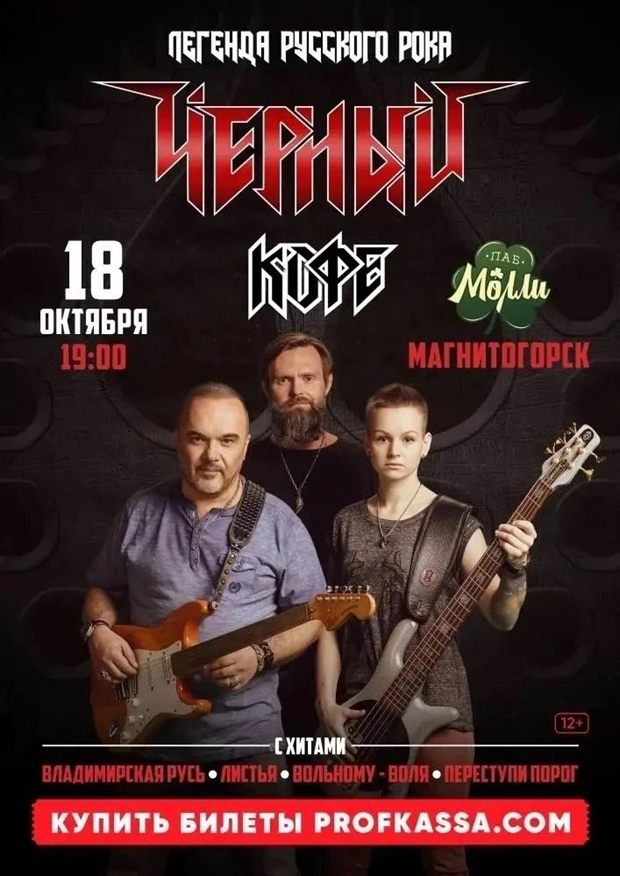
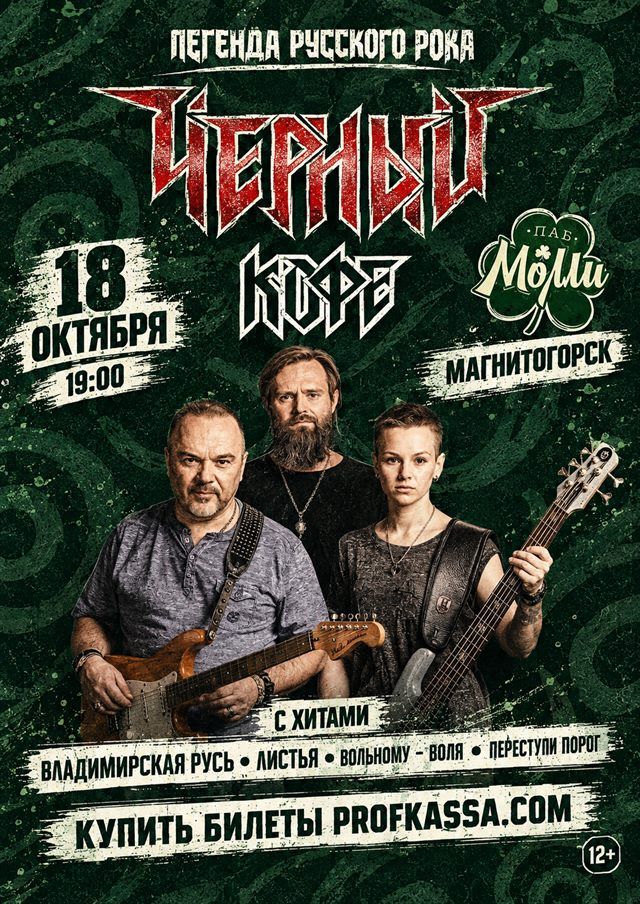
Свой шрифт и настоящие афиши концертов
Шрифт: Bitter — брусковая антиква с кириллицей, лицензия SIL OFL.
Лежит рядом с сайтом двумя файлами на 55 КБ, кириллица и латиница
отдельными наборами. Никаких обращений к сторонним серверам: ни
блокировки, ни чужой аптайм на нас не влияют. Начертание заголовков
поднято с 400 до 500 — на тёмном фоне тонкое смотрится жидко.

Афиши: шесть постеров заменены на присланные, все в фирменной
зелёной гамме заведения. Постеры разных пропорций, а контейнер 3:4 —
отсюда и «блёклость»: квадратные обрастали пустыми полосами. Теперь
за афишей её же размытая копия, пустот не видно.

«Папин Олимпос» распродан — так и написано, кнопка билетов погашена.
У Косты Лакосты поправлено время: на афише 20:00, а не 19:00.

diff --git a/style.css b/style.css
@@ -1,3 +1,24 @@
+/* ================= ШРИФТ =================
+   Bitter — брусковая антиква с кириллицей, лицензия SIL OFL (fonts/OFL.txt).
+   Лежит рядом с сайтом: без обращений к сторонним серверам,
+   значит не зависит ни от блокировок, ни от чужого аптайма. */
+@font-face{
+  font-family:'Bitter';
+  font-style:normal;
+  font-weight:100 900;
+  font-display:swap;
+  src:url('fonts/bitter-cyrillic.woff2') format('woff2');
+  unicode-range:U+0301, U+0400-045F, U+0490-0491, U+04B0-04B1, U+2116;
+}
+@font-face{
+  font-family:'Bitter';
+  font-style:normal;
+  font-weight:100 900;
+  font-display:swap;
+  src:url('fonts/bitter-latin.woff2') format('woff2');
+  unicode-range:U+0000-00FF, U+0131, U+0152-0153, U+02BB-02BC, U+02C6, U+02DA, U+02DC, U+0304, U+0308, U+0329, U+2000-206F, U+20AC, U+2122, U+2191, U+2193, U+2212, U+2215, U+FEFF, U+FFFD;
+}
+
 :root{
   --ink:#0a1209;
   --bg:#0d1a12;
@@ -11,7 +32,7 @@
   --brass-bright:#e0bc74;
   --amber:#d98b2b;
   --shadow:0 18px 50px rgba(0,0,0,.45);
-  --serif:Georgia,"Times New Roman",'Iowan Old Style',serif;
+  --serif:'Bitter',Georgia,"Times New Roman",serif;
   --sans:-apple-system,BlinkMacSystemFont,"Segoe UI",Arial,sans-serif;
   --wrap:1180px;
 }
@@ -26,7 +47,7 @@ a{color:inherit;text-decoration:none}
 .wrap{width:100%;max-width:var(--wrap);margin:0 auto;padding:0 24px}
 
 /* ---------- типографика ---------- */
-h1,h2,h3,.serif{font-family:var(--serif);font-weight:400;letter-spacing:.01em}
+h1,h2,h3,.serif{font-family:var(--serif);font-weight:500;letter-spacing:.005em}
 h2{font-size:clamp(30px,4.4vw,50px);line-height:1.12}
 h3{font-size:22px;line-height:1.25}
 .eyebrow{
@@ -62,7 +83,7 @@ h3{font-size:22px;line-height:1.25}
    на телефоне её вытесняют кнопка брони и бургер */
 .logo-txt{display:block;line-height:1.15}
 .logo-txt b{
-  display:block;font-family:var(--serif);font-weight:400;font-size:23px;
+  display:block;font-family:var(--serif);font-weight:500;font-size:23px;
   color:var(--cream);letter-spacing:.02em;
 }
 .logo-txt span{
@@ -166,7 +187,7 @@ h3{font-size:22px;line-height:1.25}
   display:block;font-size:11.5px;letter-spacing:.16em;text-transform:uppercase;
   color:var(--amber);font-weight:700;margin-bottom:8px;
 }
-.ev-txt h4{font-family:var(--serif);font-size:19px;font-weight:400;line-height:1.2;margin-bottom:6px}
+.ev-txt h4{font-family:var(--serif);font-size:19px;font-weight:500;line-height:1.2;margin-bottom:6px}
 .ev-txt p{font-size:14px;color:var(--muted)}
 .bill-foot{
   margin-top:32px;display:flex;align-items:center;gap:14px;flex-wrap:wrap;
@@ -446,7 +467,7 @@ body:not(.hints) .need,body:not(.hints) .draft-bar{display:none}
 .asst-teaser.on{display:flex}
 @keyframes pop{from{opacity:0;transform:translateY(10px) scale(.96)}to{opacity:1;transform:none}}
 .asst-teaser .ava{width:48px;height:48px;border-radius:50%;flex:none;background:linear-gradient(150deg,#1c3222,#101d14);color:var(--brass-bright);display:flex;align-items:center;justify-content:center;font-family:var(--serif);font-size:19px}
-.asst-teaser b{display:block;font-size:15px;margin-bottom:3px;font-family:var(--serif);font-weight:400}
+.asst-teaser b{display:block;font-size:15px;margin-bottom:3px;font-family:var(--serif);font-weight:500}
 .asst-teaser p{font-size:13.5px;line-height:1.45;color:#3c4a38}
 .asst-teaser .x{position:absolute;top:8px;right:10px;border:0;background:none;font-size:17px;color:#8b978a;cursor:pointer;line-height:1;padding:4px}
 .asst-teaser .x:hover{color:#1b2419}
@@ -461,7 +482,7 @@ body:not(.hints) .need,body:not(.hints) .draft-bar{display:none}
 .asst-panel.on{display:flex}
 .asst-head{display:flex;align-items:center;gap:12px;padding:16px 18px;background:var(--panel);border-bottom:1px solid var(--line-soft);flex:none}
 .asst-head .ava{width:46px;height:46px;border-radius:50%;flex:none;border:1px solid var(--line);color:var(--brass-bright);display:flex;align-items:center;justify-content:center;font-family:var(--serif);font-size:18px}
-.asst-head b{display:block;font-family:var(--serif);font-weight:400;font-size:17px}
+.asst-head b{display:block;font-family:var(--serif);font-weight:500;font-size:17px}
 .asst-head span{font-size:12px;color:var(--muted);display:flex;align-items:center;gap:6px}
 .asst-head span::before{content:"";width:6px;height:6px;border-radius:50%;background:#5fbf6a}
 .asst-head .x{margin-left:auto;background:none;border:0;color:var(--muted);font-size:20px;cursor:pointer;padding:6px;line-height:1}
@@ -678,7 +699,11 @@ body:not(.hints) .need,body:not(.hints) .draft-bar{display:none}
   aspect-ratio:3/4;background:#0b1610;display:block;overflow:hidden;position:relative;
   border-bottom:1px solid var(--line-soft);
 }
-.gig-pic img{width:100%;height:100%;object-fit:contain;display:block;transition:transform .5s}
+.gig-bg{
+  position:absolute;inset:-6%;background-size:cover;background-position:center;
+  filter:blur(16px) saturate(.8) brightness(.45);transform:scale(1.1);
+}
+.gig-pic img{position:relative;z-index:1;width:100%;height:100%;object-fit:contain;display:block;transition:transform .5s}
 .gig:hover .gig-pic img{transform:scale(1.03)}
 .gig-txt{padding:16px 18px 8px;flex:1}
 .gig-when{
@@ -754,7 +779,7 @@ body:not(.hints) .need,body:not(.hints) .draft-bar{display:none}
 
 /* ================= ДОКУМЕНТЫ ================= */
 .doc{max-width:760px}
-.doc h1{font-family:var(--serif);font-weight:400;font-size:clamp(28px,4.4vw,40px);line-height:1.15;margin-bottom:10px;text-wrap:balance}
+.doc h1{font-family:var(--serif);font-weight:500;font-size:clamp(28px,4.4vw,40px);line-height:1.15;margin-bottom:10px;text-wrap:balance}
 .doc-date{color:var(--muted);font-size:14.5px;margin-bottom:38px}
 .doc h2{
   font-family:var(--sans);font-size:15px;font-weight:700;letter-spacing:.04em;
@@ -833,3 +858,10 @@ body.cookie-open .hints-toggle{display:none}
   .next-ev-name{font-size:15px}
   .next-ev-go{display:none}
 }
+
+/* распроданный концерт: кнопка гаснет, чтобы не звать зря */
+.gig-cta-off{
+  background:transparent;border-color:var(--line-soft);color:#7d8a7a;
+  letter-spacing:.12em;text-transform:uppercase;font-size:12px;
+}
+.gig:hover .gig-cta-off{background:transparent;border-color:var(--line-soft);color:#7d8a7a}

diff --git a/index.html b/index.html
@@ -213,7 +213,7 @@
          Афиши — от их дизайнера, из папки заказчика. -->
     <div class="gigs rv" id="gigs">
       <a class="gig" data-until="2026-09-10" href="https://afisha.yandex.ru/magnitogorsk/concert/sergey-zavyalov-16" target="_blank" rel="noopener">
-        <span class="gig-pic"><img src="images/gig-1.jpg" loading="lazy" width="620" height="619" alt="Афиша концерта: Сергей Завьялов в пабе Молли, 10 сентября"></span>
+        <span class="gig-pic"><span class="gig-bg" style="background-image:url(images/gig-1.jpg)"></span><img src="images/gig-1.jpg" loading="lazy" width="620" height="619" alt="Афиша концерта: Сергей Завьялов в пабе Молли, 10 сентября"></span>
         <span class="gig-txt">
           <span class="gig-when">10 сентября · чт, 20:00</span>
           <span class="gig-name">Сергей Завьялов</span>
@@ -222,7 +222,7 @@
         <span class="gig-cta">Билеты</span>
       </a>
       <a class="gig" data-until="2026-10-08" href="https://afisha.yandex.ru/magnitogorsk/concert/eduard-khusnutdinov-2026" target="_blank" rel="noopener">
-        <span class="gig-pic"><img src="images/gig-2.jpg" loading="lazy" width="620" height="877" alt="Афиша концерта: Эдуард Хуснутдинов в пабе Молли, 8 октября"></span>
+        <span class="gig-pic"><span class="gig-bg" style="background-image:url(images/gig-2.jpg)"></span><img src="images/gig-2.jpg" loading="lazy" width="620" height="877" alt="Афиша концерта: Эдуард Хуснутдинов в пабе Молли, 8 октября"></span>
         <span class="gig-txt">
           <span class="gig-when">8 октября · чт, 19:00</span>
           <span class="gig-name">Эдуард Хуснутдинов</span>
@@ -231,7 +231,7 @@
         <span class="gig-cta">Билеты</span>
       </a>
       <a class="gig" data-until="2026-10-18" href="https://afisha.yandex.ru/magnitogorsk/concert/chiornyi-kofe-tour" target="_blank" rel="noopener">
-        <span class="gig-pic"><img src="images/gig-3.jpg" loading="lazy" width="620" height="876" alt="Афиша концерта: Чёрный кофе в пабе Молли, 18 октября"></span>
+        <span class="gig-pic"><span class="gig-bg" style="background-image:url(images/gig-3.jpg)"></span><img src="images/gig-3.jpg" loading="lazy" width="620" height="876" alt="Афиша концерта: Чёрный кофе в пабе Молли, 18 октября"></span>
         <span class="gig-txt">
           <span class="gig-when">18 октября · вс, 19:00</span>
           <span class="gig-name">Чёрный кофе</span>
@@ -240,16 +240,16 @@
         <span class="gig-cta">Билеты</span>
       </a>
       <a class="gig" data-until="2026-11-09" href="https://afisha.yandex.ru/magnitogorsk/concert/papin-olimpos-tour" target="_blank" rel="noopener">
-        <span class="gig-pic"><img src="images/gig-4.jpg" loading="lazy" width="620" height="620" alt="Афиша концерта: Папин Олимпос в пабе Молли, 9 ноября"></span>
+        <span class="gig-pic"><span class="gig-bg" style="background-image:url(images/gig-4.jpg)"></span><img src="images/gig-4.jpg" loading="lazy" width="620" height="620" alt="Афиша концерта: Папин Олимпос в пабе Молли, 9 ноября"></span>
         <span class="gig-txt">
           <span class="gig-when">9 ноября · пн, 19:00</span>
           <span class="gig-name">Папин Олимпос</span>
-          <span class="gig-price">от 1800 ₽</span>
+          <span class="gig-price">Билеты распроданы</span>
         </span>
-        <span class="gig-cta">Билеты</span>
+        <span class="gig-cta gig-cta-off">Солдаут</span>
       </a>
       <a class="gig" data-until="2026-11-14" href="https://afisha.yandex.ru/magnitogorsk/concert/murakami-nevesta-khochet-12" target="_blank" rel="noopener">
-        <span class="gig-pic"><img src="images/gig-5.jpg" loading="lazy" width="620" height="830" alt="Афиша концерта: Мураками в пабе Молли, 14 ноября"></span>
+        <span class="gig-pic"><span class="gig-bg" style="background-image:url(images/gig-5.jpg)"></span><img src="images/gig-5.jpg" loading="lazy" width="620" height="830" alt="Афиша концерта: Мураками в пабе Молли, 14 ноября"></span>
         <span class="gig-txt">
           <span class="gig-when">14 ноября · сб, 19:00</span>
           <span class="gig-name">Мураками</span>
@@ -258,9 +258,9 @@
         <span class="gig-cta">Билеты</span>
       </a>
       <a class="gig" data-until="2027-02-13" href="https://afisha.yandex.ru/magnitogorsk/concert/kosta-lakosta-tour" target="_blank" rel="noopener">
-        <span class="gig-pic"><img src="images/gig-6.jpg" loading="lazy" width="620" height="774" alt="Афиша концерта: Коста Лакоста в пабе Молли, 13 февраля"></span>
+        <span class="gig-pic"><span class="gig-bg" style="background-image:url(images/gig-6.jpg)"></span><img src="images/gig-6.jpg" loading="lazy" width="620" height="774" alt="Афиша концерта: Коста Лакоста в пабе Молли, 13 февраля"></span>
         <span class="gig-txt">
-          <span class="gig-when">13 февраля · сб, 19:00</span>
+          <span class="gig-when">13 февраля · пт, 20:00</span>
           <span class="gig-name">Коста Лакоста</span>
           <span class="gig-price">от 3000 ₽</span>
         </span>

diff --git a/priglashenie.html b/priglashenie.html
@@ -14,11 +14,21 @@
 <meta property="og:description" content="Вас приглашают отметить праздник в ирландском пабе «Молли». Магнитогорск, Завенягина, 8а.">
 <meta property="og:image" content="https://molly-mgn.com/images/og-image.jpg">
 <style>
+@font-face{
+  font-family:'Bitter';font-style:normal;font-weight:100 900;font-display:swap;
+  src:url('fonts/bitter-cyrillic.woff2') format('woff2');
+  unicode-range:U+0301, U+0400-045F, U+0490-0491, U+04B0-04B1, U+2116;
+}
+@font-face{
+  font-family:'Bitter';font-style:normal;font-weight:100 900;font-display:swap;
+  src:url('fonts/bitter-latin.woff2') format('woff2');
+  unicode-range:U+0000-00FF, U+0131, U+0152-0153, U+02BB-02BC, U+02C6, U+02DA, U+02DC, U+0304, U+0308, U+0329, U+2000-206F, U+20AC, U+2122, U+2191, U+2193, U+2212, U+2215, U+FEFF, U+FFFD;
+}
 :root{
   --bg:#0d1a12; --panel:#16281c; --line:rgba(200,164,90,.24);
   --line-soft:rgba(242,234,216,.10); --cream:#f2ead8; --muted:#a3b09f;
   --brass:#c8a45a; --brass-bright:#e0bc74; --amber:#d98b2b;
-  --serif:Georgia,"Times New Roman",serif;
+  --serif:'Bitter',Georgia,'Times New Roman',serif;
   --sans:-apple-system,BlinkMacSystemFont,"Segoe UI",Arial,sans-serif;
 }
 *{box-sizing:border-box;margin:0;padding:0}
@@ -49,7 +59,7 @@ a{color:inherit}
 }
 .card-body{padding:34px}
 h1{
-  font-family:var(--serif);font-weight:400;font-size:clamp(27px,6vw,38px);
+  font-family:var(--serif);font-weight:500;font-size:clamp(27px,6vw,38px);
   line-height:1.18;text-align:center;margin-bottom:10px;text-wrap:balance;
 }
 .host{text-align:center;color:var(--muted);font-size:15.5px;margin-bottom:28px}
@@ -87,7 +97,7 @@ h1{
 
 /* ---------- конструктор ---------- */
 .maker{margin:38px auto 60px}
-.maker h2{font-family:var(--serif);font-weight:400;font-size:30px;margin-bottom:10px}
+.maker h2{font-family:var(--serif);font-weight:500;font-size:30px;margin-bottom:10px}
 .maker>p{color:var(--muted);margin-bottom:26px}
 .field{margin-bottom:16px}
 .field label{display:block;font-size:12px;letter-spacing:.14em;text-transform:uppercase;color:var(--brass);margin-bottom:7px}
